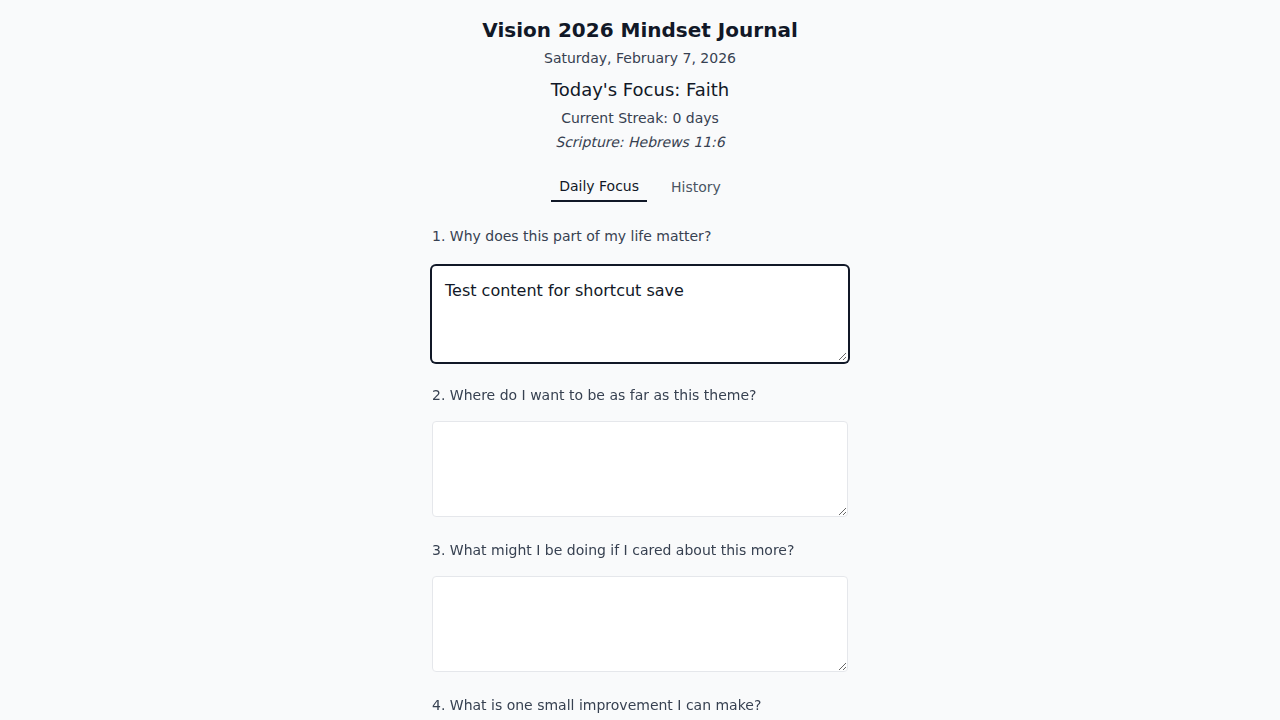
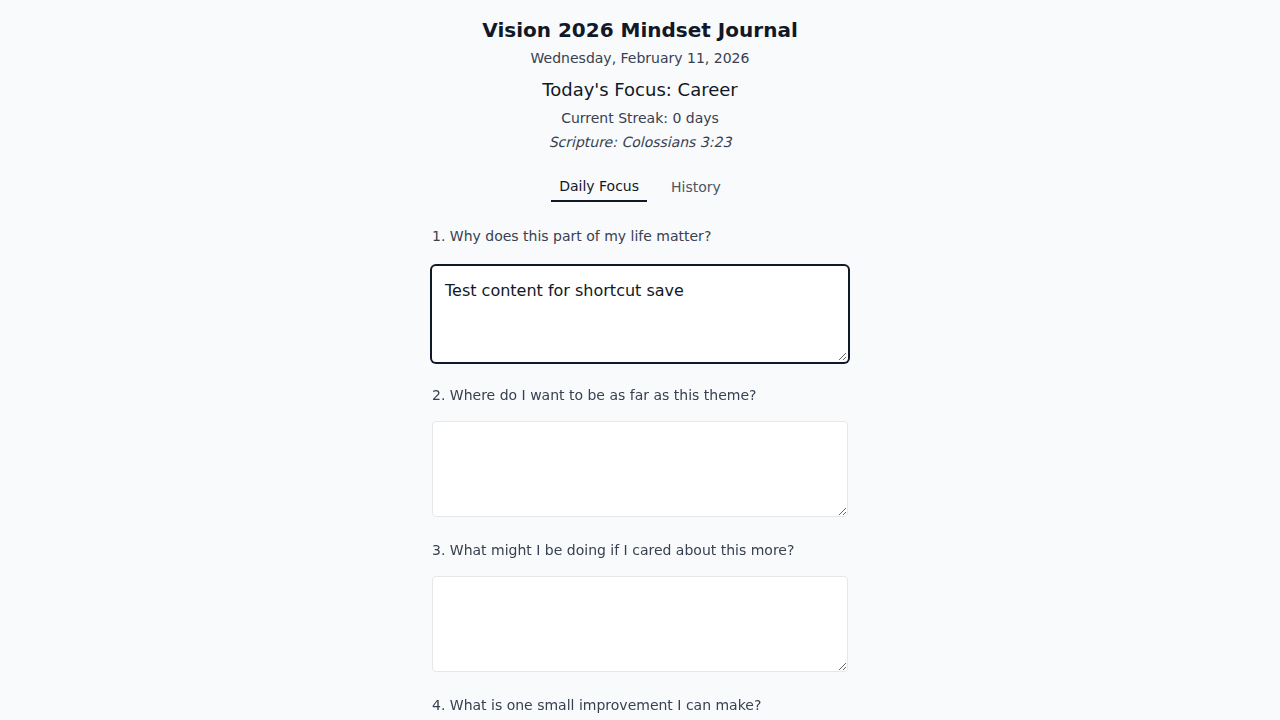
feat(ux): add keyboard shortcut hint to save button

Changed region(s): [[0.4062, 0.0611, 0.5938, 0.1528], [0.4375, 0.1833, 0.5938, 0.2139]]

diff --git a/index.html b/index.html
@@ -72,8 +72,9 @@
         Now, pray God will bless your efforts in this area.
       </p>
 
-      <button id="saveBtn" type="submit" title="Save Entry (Ctrl + Enter)" class="bg-gray-900 text-white py-3 rounded w-full text-sm font-medium focus:outline-none focus:ring-2 focus:ring-gray-900 focus:ring-offset-2 disabled:opacity-70 disabled:cursor-wait">
+      <button id="saveBtn" type="submit" aria-keyshortcuts="Control+Enter" title="Save Entry (Ctrl + Enter)" class="bg-gray-900 text-white py-3 rounded w-full text-sm font-medium focus:outline-none focus-visible:ring-2 focus:ring-gray-900 focus:ring-offset-2 disabled:opacity-70 disabled:cursor-wait">
         Save Entry
+        <span class="hidden sm:inline opacity-75 font-normal ml-1" aria-hidden="true">(Ctrl + Enter)</span>
       </button>
 
       <button type="button" id="calendarBtn" class="border border-gray-900 py-3 rounded w-full text-sm font-medium focus:outline-none focus:ring-2 focus:ring-gray-900 focus:ring-offset-2">

diff --git a/verification/verify_ux_hint.py b/verification/verify_ux_hint.py
@@ -1,0 +1,64 @@
+from playwright.sync_api import sync_playwright, expect
+import sys
+
+def verify_ux_hint(page):
+    print("Navigating to app...")
+    page.goto("http://localhost:8000/index.html")
+
+    # Locate the Save Button
+    save_btn = page.locator("#saveBtn")
+
+    # 1. Check aria-keyshortcuts
+    print("Checking aria-keyshortcuts...")
+    expect(save_btn).to_have_attribute("aria-keyshortcuts", "Control+Enter")
+    print("✓ aria-keyshortcuts attribute is correct.")
+
+    # 2. Check inner text presence (Desktop)
+    print("Checking visibility on Desktop (1024x768)...")
+    page.set_viewport_size({"width": 1024, "height": 768})
+
+    # The span should be visible
+    # We look for the text "(Ctrl + Enter)"
+    hint_span = save_btn.locator("span", has_text="(Ctrl + Enter)")
+    expect(hint_span).to_be_visible()
+
+    # Check opacity/styling classes if possible, but visibility is key
+    print("✓ Hint is visible on desktop.")
+
+    # 3. Check visibility on Mobile (375x667)
+    print("Checking visibility on Mobile (375x667)...")
+    page.set_viewport_size({"width": 375, "height": 667})
+
+    # The span should be hidden
+    expect(hint_span).not_to_be_visible()
+    print("✓ Hint is hidden on mobile.")
+
+    # 4. Check focus-visible behavior (Optional / Hard to test reliably without precise event simulation)
+    # We can check the class exists though
+    # expect(save_btn).to_have_class("focus-visible:ring-2")
+    # But class check is fragile if other classes are present.
+    # Let's check if the class list contains it.
+    classes = save_btn.get_attribute("class")
+    if "focus-visible:ring-2" in classes:
+        print("✓ focus-visible:ring-2 class is present.")
+    else:
+        print("✗ focus-visible:ring-2 class is MISSING.")
+        # We won't fail the test for this strictly in this script, but good to know.
+        # Actually, let's fail if it's missing as it's part of the plan.
+        raise Exception("focus-visible:ring-2 class is missing")
+
+    print("Taking screenshot...")
+    page.screenshot(path="verification/ux_hint_verification.png")
+
+if __name__ == "__main__":
+    with sync_playwright() as p:
+        browser = p.chromium.launch()
+        page = browser.new_page()
+        try:
+            verify_ux_hint(page)
+            print("Verification PASSED")
+        except Exception as e:
+            print(f"Verification FAILED: {e}")
+            sys.exit(1)
+        finally:
+            browser.close()

diff --git a/.Jules/palette.md b/.Jules/palette.md
@@ -41,3 +41,7 @@
 ## 2026-02-08 - Destructive Action Patterns
 **Learning:** Using browser-native `confirm()` dialogs interrupts the flow and feels disjointed from the UI. However, accidental deletions must be prevented.
 **Action:** Implement a two-step confirmation on the button itself (e.g., "Delete" -> "Confirm Delete?"). Crucially, manage focus post-deletion: if the deleted element was the focus trigger, programmatically move focus to a stable, nearby element (like a filter or container) to prevent context loss.
+
+## 2026-02-11 - Responsive Shortcut Hints
+**Learning:** Keyboard shortcut hints clutter the UI on mobile devices where physical keyboards are rare.
+**Action:** Use responsive utility classes (e.g., `hidden sm:inline`) to show shortcut hints only on larger viewports where keyboard usage is likely.
